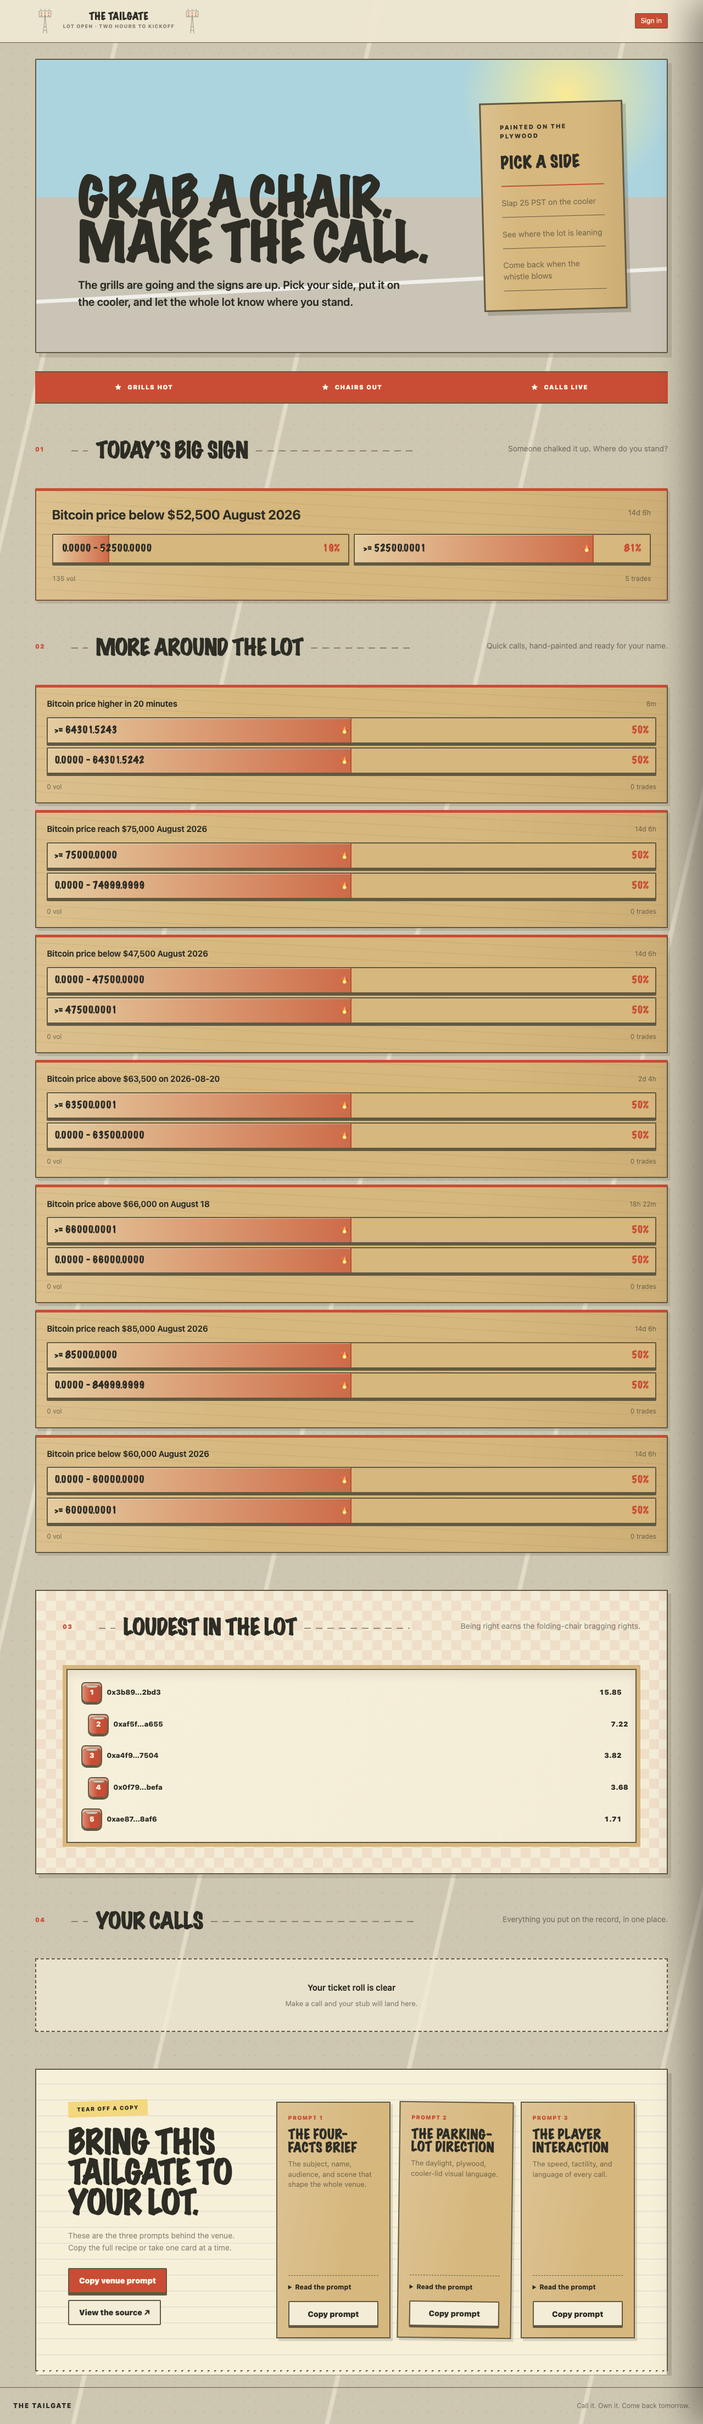
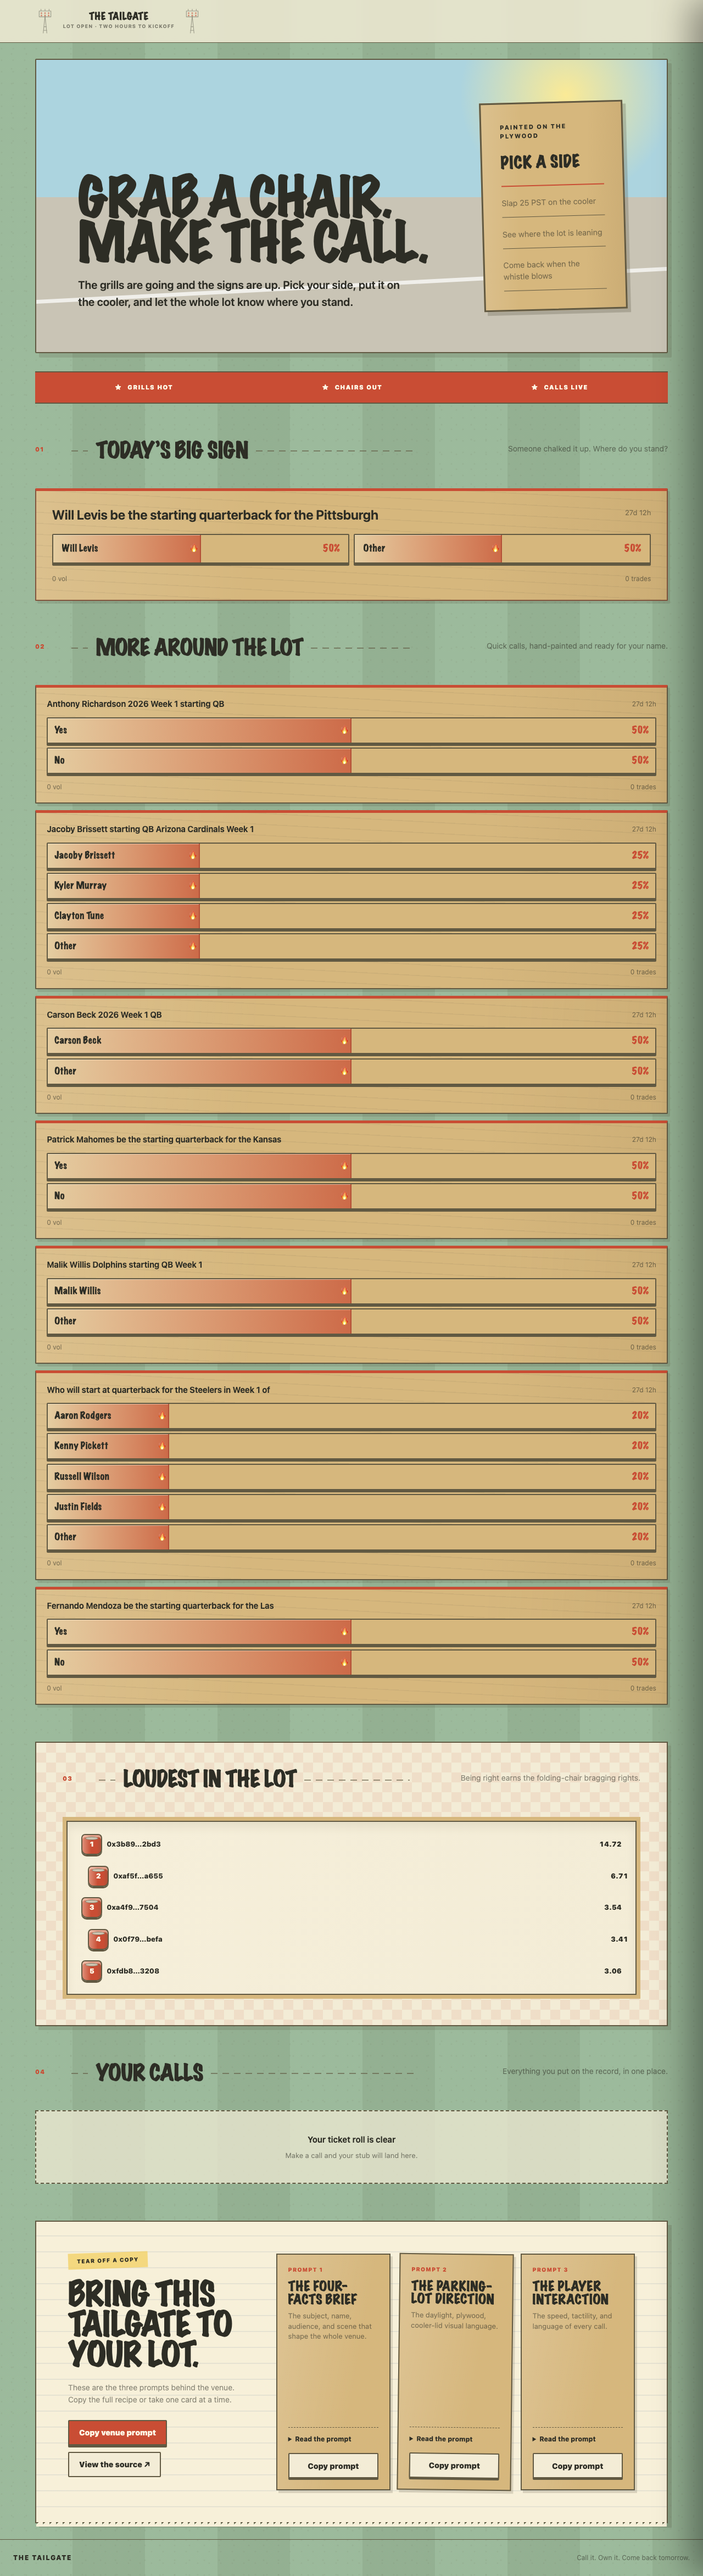
Give the Tailgate a faded field backdrop
Reduce the yellow cast with muted turf bands while preserving the parking-lot and plywood surfaces.

diff --git a/app/globals.css b/app/globals.css
@@ -56,20 +56,23 @@ body {
 }
 
 [data-archetype='tailgate'] {
+  --tailgate-field: color-mix(in srgb, var(--pc-gain) 46%, var(--pc-surface));
   min-height: 100vh;
   background:
-    repeating-linear-gradient(104deg, transparent 0 210px, rgba(255, 255, 255, 0.38) 212px 218px, transparent 220px 430px),
-    linear-gradient(rgba(70, 66, 54, 0.06), rgba(70, 66, 54, 0.06));
-  background-color: #d4d0c2;
+    repeating-linear-gradient(90deg, transparent 0 124px, color-mix(in srgb, var(--pc-border) 7%, transparent) 124px 248px),
+    var(--tailgate-field);
 }
 
 [data-archetype='tailgate'] .vk-shell {
   background:
-    repeating-linear-gradient(103deg, transparent 0 218px, color-mix(in srgb, var(--pc-onaccent) 42%, transparent) 220px 226px, transparent 228px 450px),
     radial-gradient(circle at 14% 22%, color-mix(in srgb, var(--pc-border) 7%, transparent) 0 1px, transparent 2px),
     radial-gradient(circle at 78% 64%, color-mix(in srgb, var(--pc-border) 8%, transparent) 0 1px, transparent 2px),
-    color-mix(in srgb, var(--pc-surface) 74%, var(--pc-border));
-  background-size: auto, 21px 21px, 27px 27px, auto;
+    repeating-linear-gradient(
+      90deg,
+      color-mix(in srgb, var(--tailgate-field) 96%, var(--pc-onaccent)) 0 132px,
+      color-mix(in srgb, var(--tailgate-field) 92%, var(--pc-border)) 132px 264px
+    );
+  background-size: 21px 21px, 27px 27px, auto;
 }
 
 [data-archetype='tailgate'] .vk-shell__bar {
